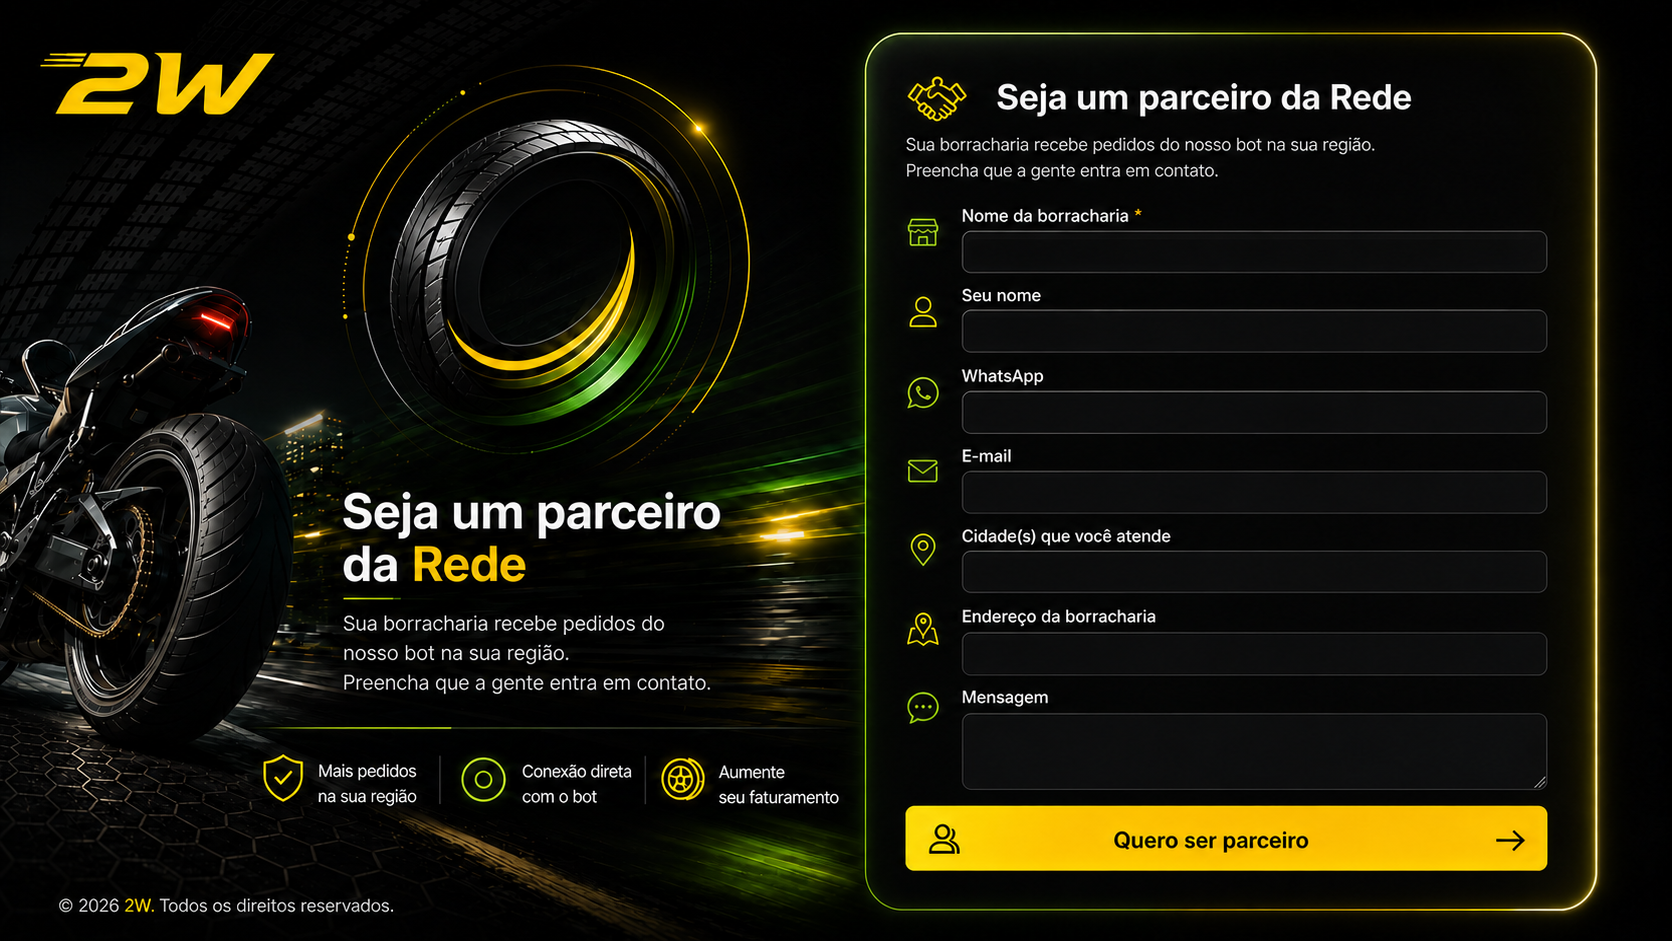
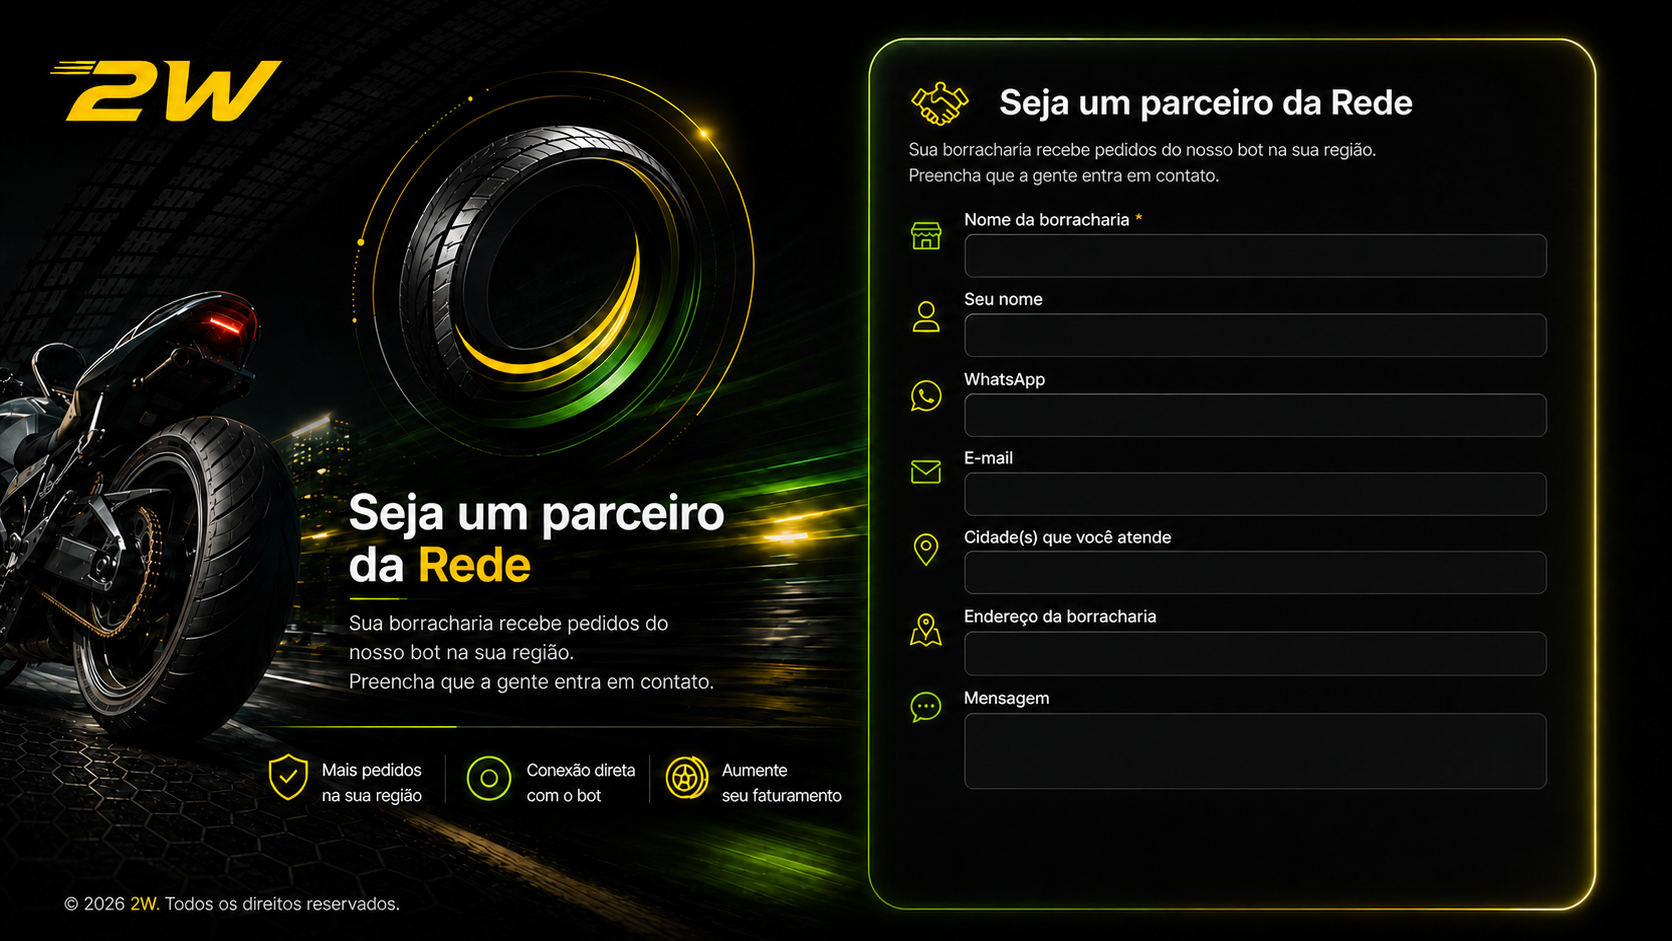
fix: make signup CTA a real button

diff --git a/painel/public/seja-parceiro.html b/painel/public/seja-parceiro.html
@@ -71,9 +71,47 @@
     height: 10.13%;
     border: 0;
     border-radius: 10px;
-    background: transparent;
-    color: transparent;
+    background: linear-gradient(180deg, #ffe700 0%, #ffd100 48%, #f0ae00 100%);
+    color: #060606;
     cursor: pointer;
+    display: grid;
+    grid-template-columns: 42px minmax(0, 1fr) 42px;
+    align-items: center;
+    gap: 12px;
+    padding: 0 22px;
+    font: 900 21px/1 Inter, ui-sans-serif, system-ui, -apple-system, BlinkMacSystemFont, "Segoe UI", sans-serif;
+    letter-spacing: 0;
+    box-shadow:
+      0 12px 26px rgba(255, 196, 0, .28),
+      inset 0 1px 0 rgba(255, 255, 255, .55),
+      inset 0 -2px 0 rgba(114, 80, 0, .16);
+    transition: transform .16s ease, filter .16s ease, box-shadow .16s ease;
+  }
+  .submit-hit:hover {
+    filter: brightness(1.06) saturate(1.05);
+    transform: translateY(-1px);
+    box-shadow:
+      0 16px 34px rgba(255, 196, 0, .35),
+      inset 0 1px 0 rgba(255, 255, 255, .65),
+      inset 0 -2px 0 rgba(114, 80, 0, .18);
+  }
+  .submit-hit:active {
+    transform: translateY(2px) scale(.995);
+    box-shadow:
+      0 6px 16px rgba(255, 196, 0, .24),
+      inset 0 2px 5px rgba(85, 58, 0, .24);
+  }
+  .submit-icon,
+  .submit-arrow {
+    display: grid;
+    place-items: center;
+    font-size: 30px;
+    line-height: 1;
+  }
+  .submit-text {
+    min-width: 0;
+    text-align: center;
+    white-space: nowrap;
   }
   .submit-hit:focus-visible {
     outline: 3px solid rgba(255, 255, 255, .82);
@@ -81,6 +119,8 @@
   }
   .submit-hit:disabled {
     cursor: wait;
+    filter: saturate(.7) brightness(.9);
+    transform: none;
   }
   .hp {
     position: absolute;
@@ -157,7 +197,11 @@
       <textarea class="message" id="message" name="message" maxlength="1000" placeholder="Conte um pouco da sua loja (opcional)"></textarea>
 
       <input class="hp" name="website" tabindex="-1" autocomplete="off" aria-hidden="true" />
-      <button class="submit-hit" type="submit" id="btn">Quero ser parceiro</button>
+      <button class="submit-hit" type="submit" id="btn">
+        <span class="submit-icon" aria-hidden="true">♙</span>
+        <span class="submit-text" id="btnText">Quero ser parceiro</span>
+        <span class="submit-arrow" aria-hidden="true">→</span>
+      </button>
     </form>
 
     <section class="status" id="okCard" role="status" aria-live="polite">
@@ -178,6 +222,7 @@
   <script>
     const form = document.getElementById('form');
     const btn = document.getElementById('btn');
+    const btnText = document.getElementById('btnText');
     const okCard = document.getElementById('okCard');
     const errCard = document.getElementById('errCard');
     const errMsg = document.getElementById('errMsg');
@@ -200,6 +245,7 @@
       okCard.style.display = 'none';
       errCard.style.display = 'none';
       btn.disabled = true;
+      btnText.textContent = 'Enviando...';
 
       try {
         const res = await fetch('/api/seja-parceiro', {
@@ -217,6 +263,7 @@
         errMsg.textContent = 'Tenta de novo? Detalhe: ' + (err.message || err);
         errCard.style.display = 'grid';
         btn.disabled = false;
+        btnText.textContent = 'Quero ser parceiro';
       }
     });
   </script>